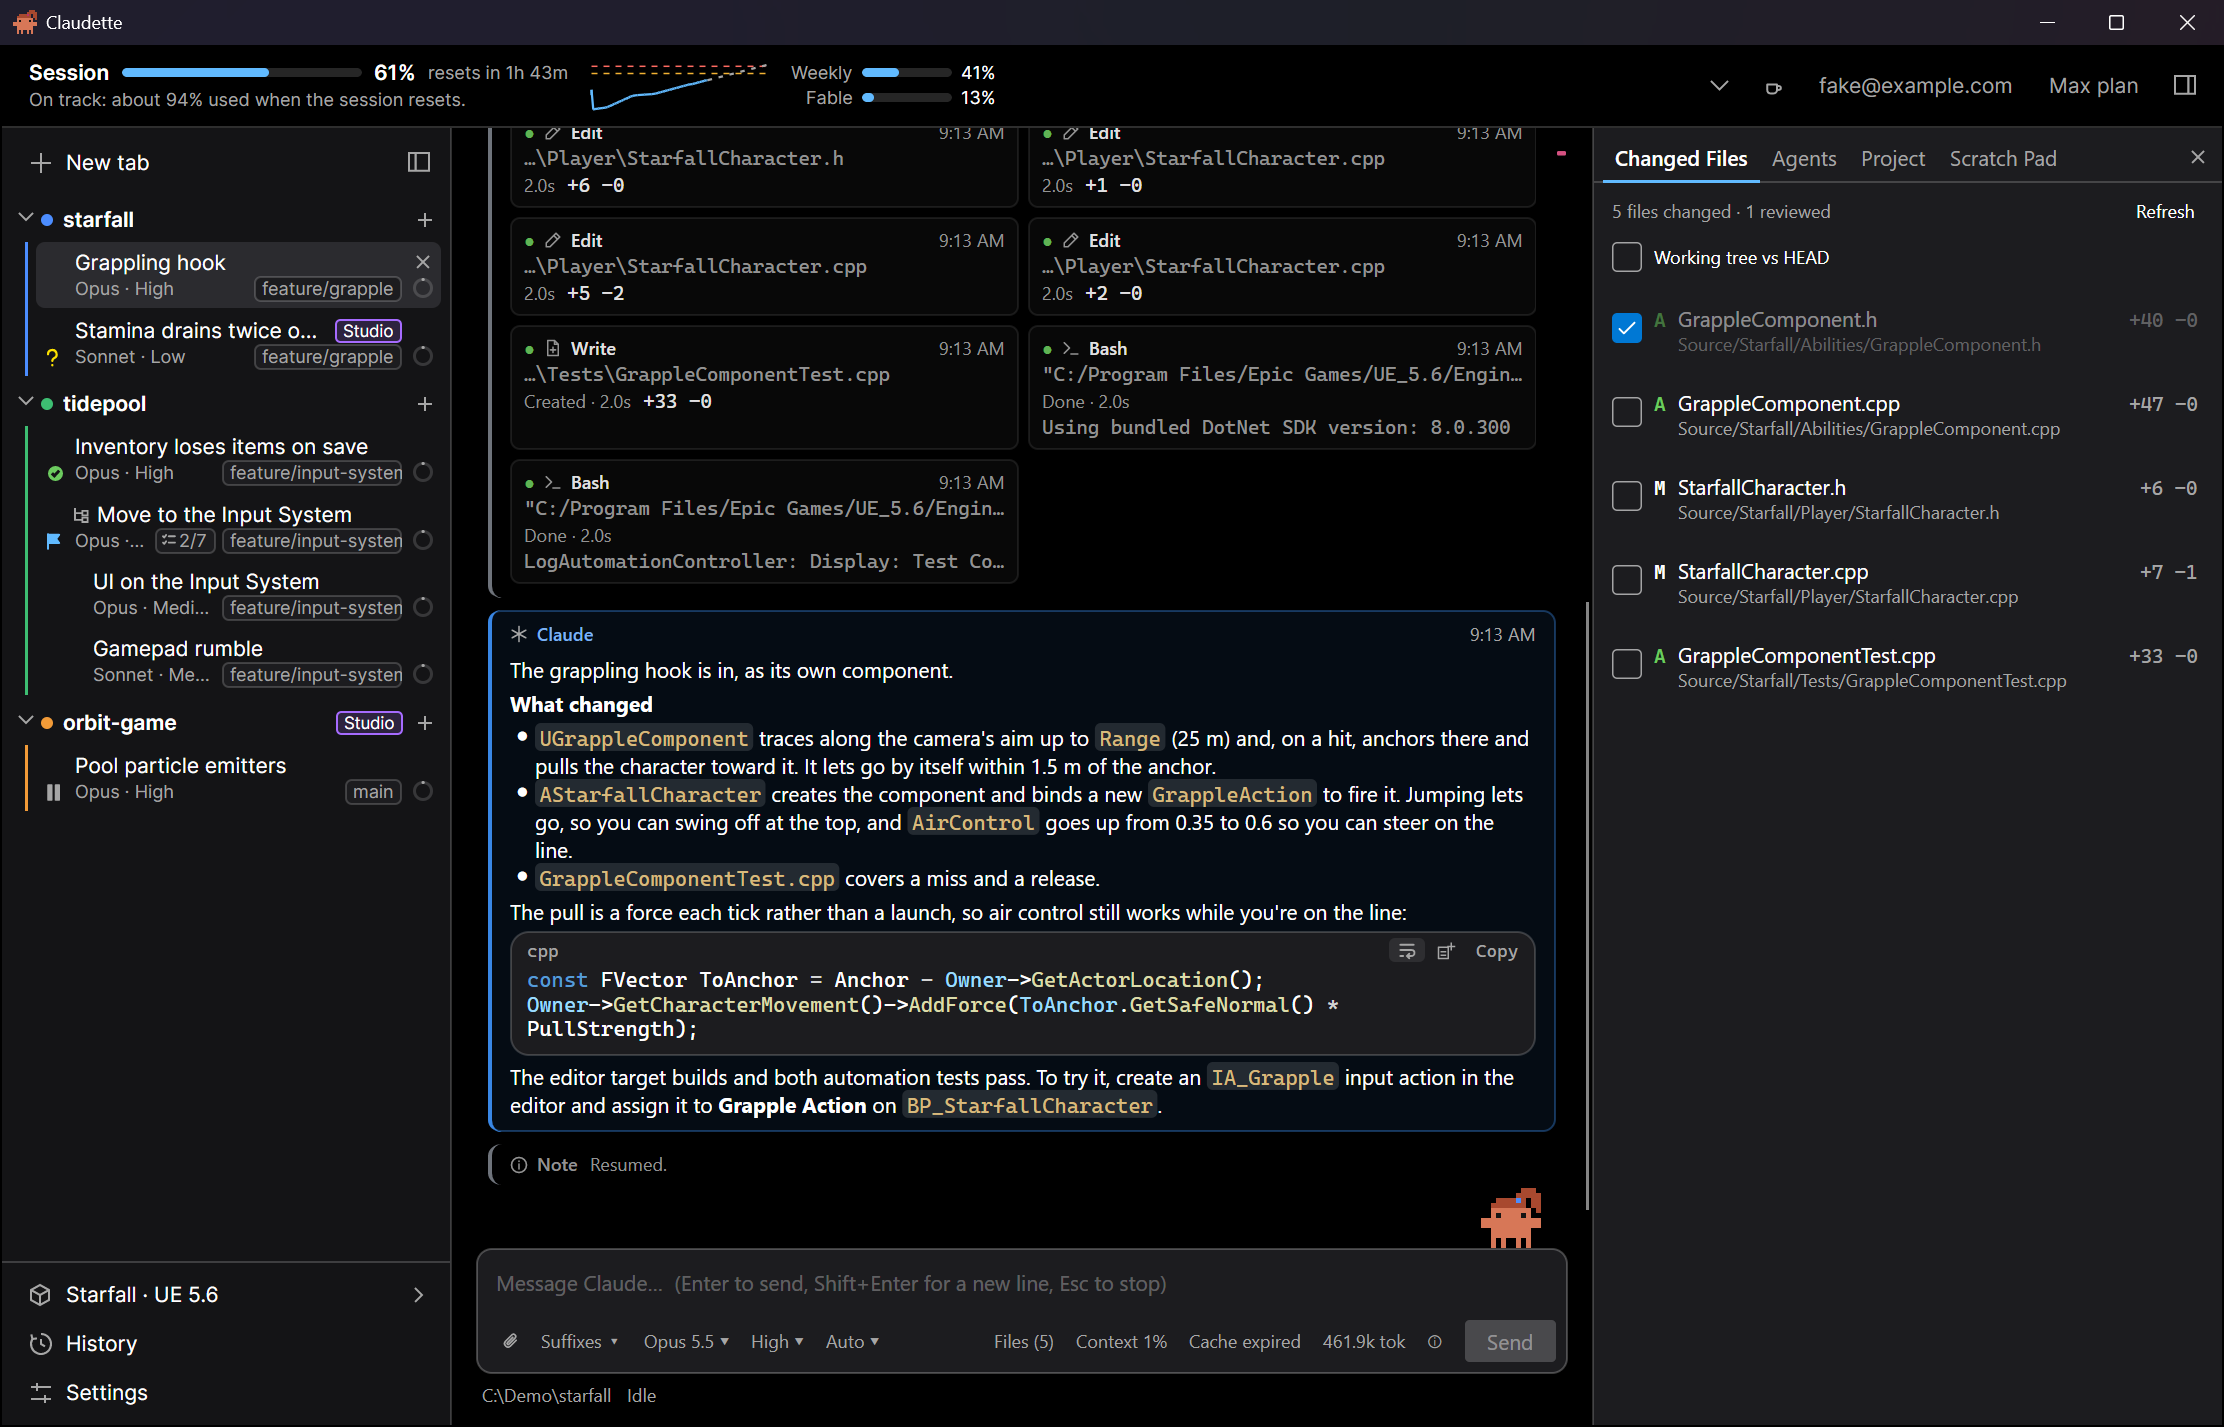
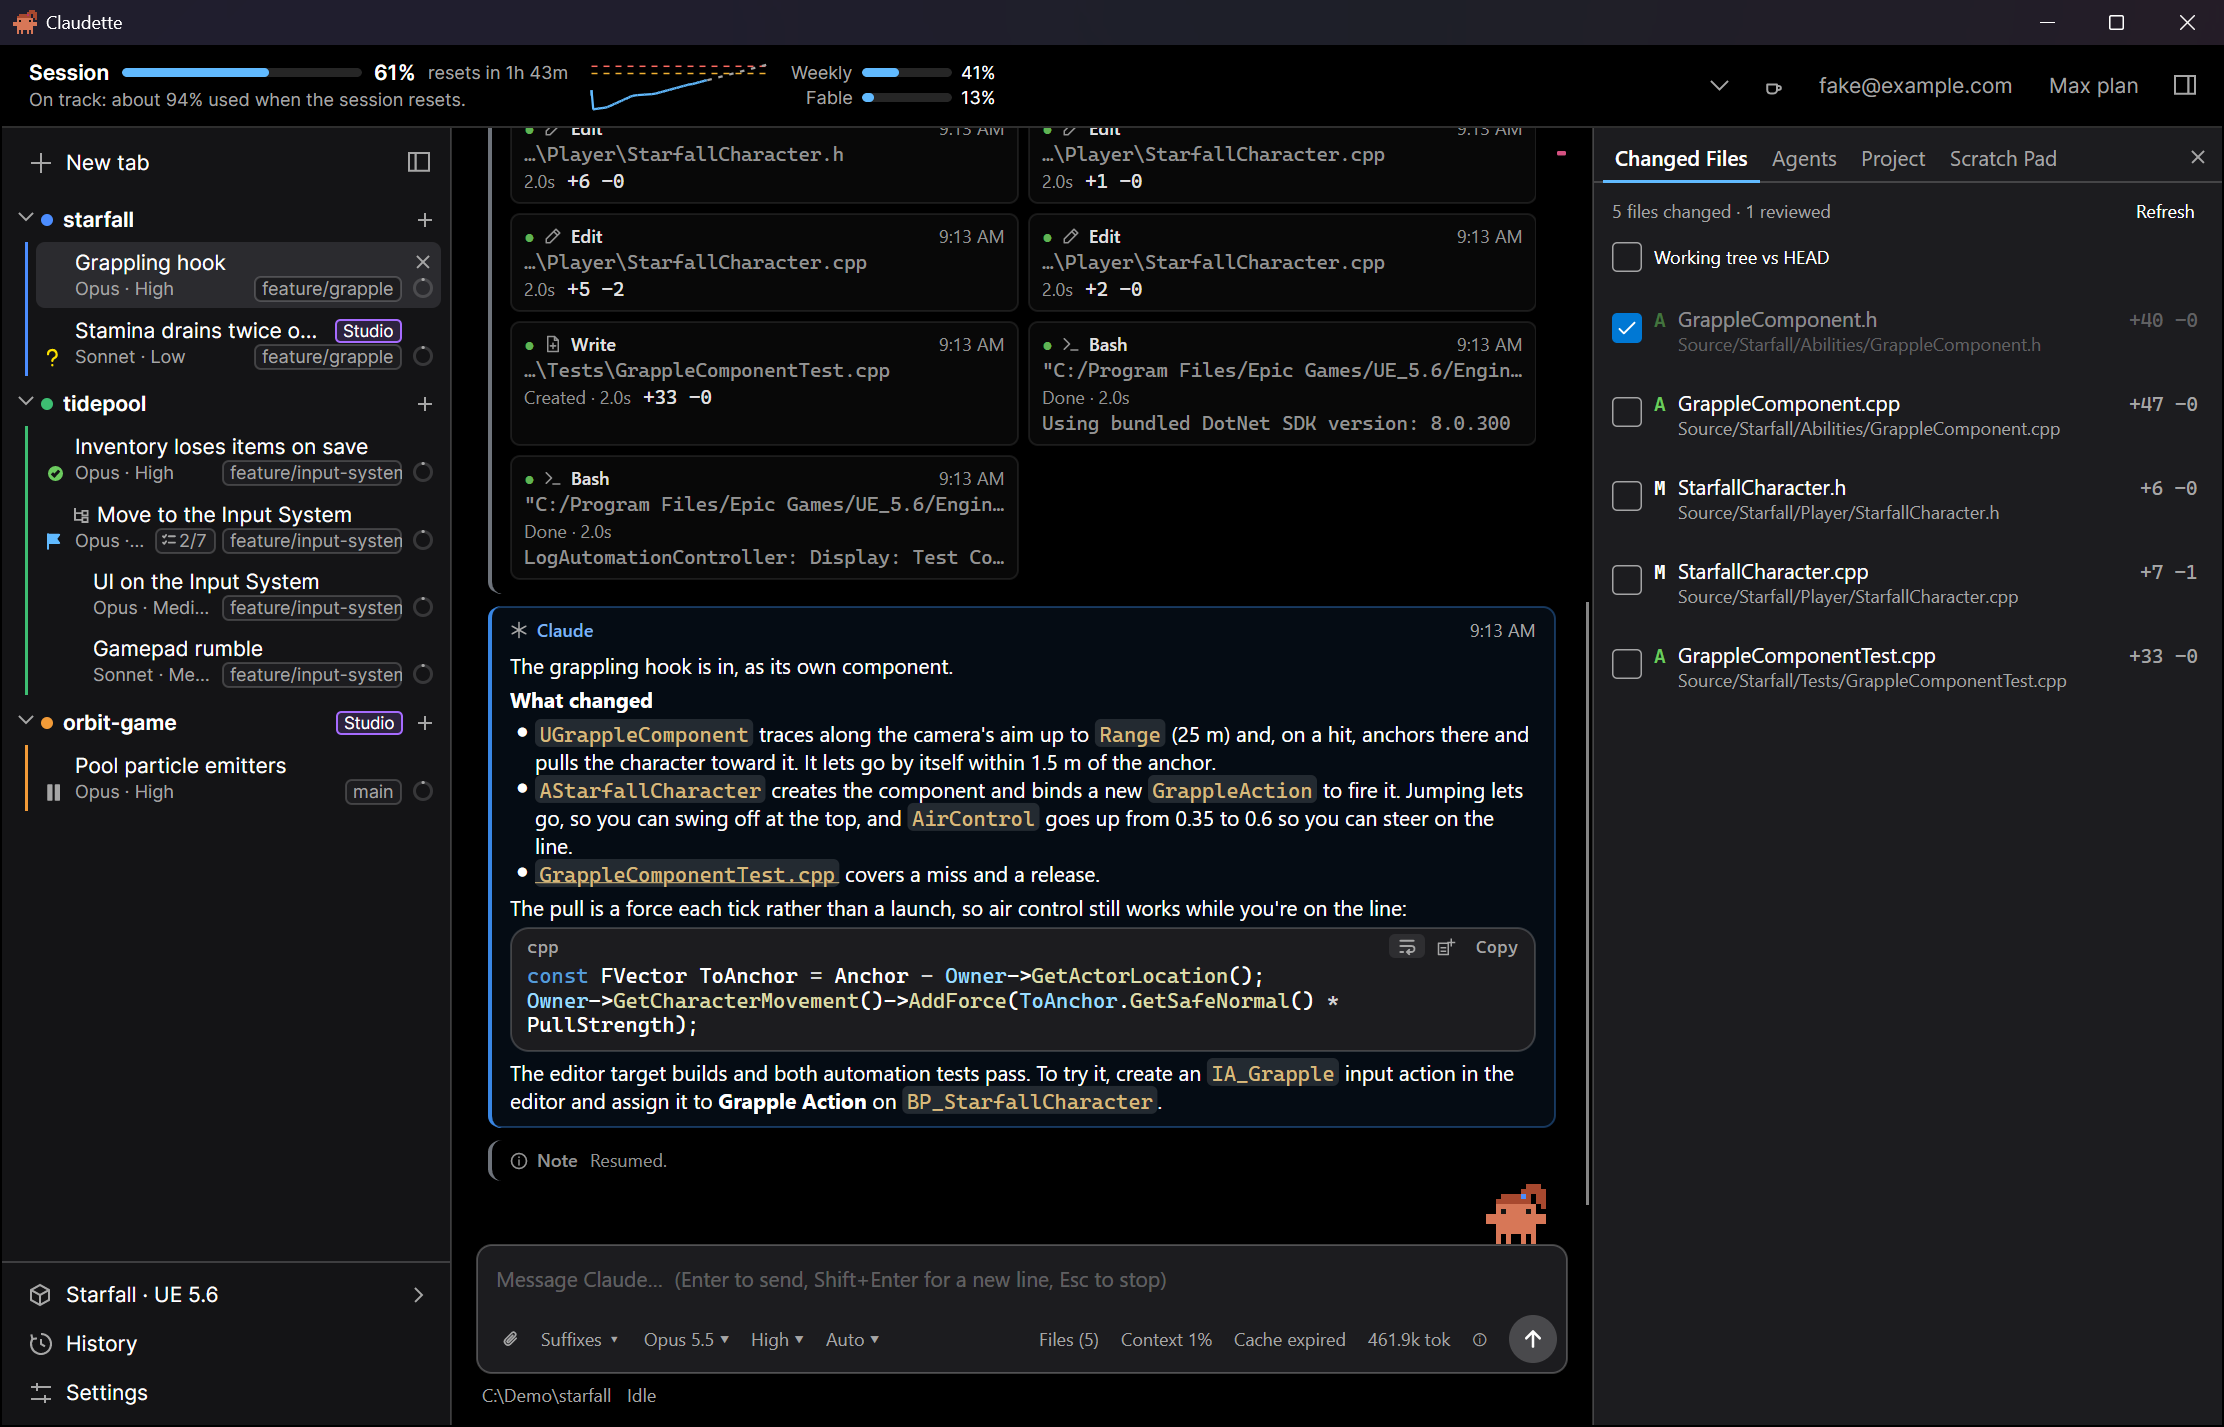
Screenshot and style update to send button

diff --git a/tests/Claudette.App.UiTests/ClaudeStyleTests.cs b/tests/Claudette.App.UiTests/ClaudeStyleTests.cs
@@ -74,7 +74,7 @@ public class ClaudeStyleTests
         Assert.IsAssignableFrom<ISolidColorBrush>(window.FindResource(window.ActualThemeVariant, key)).Color;
 
     [AvaloniaFact]
-    public async Task The_Claude_style_rounds_the_cards_paints_yours_warm_and_makes_Send_a_round_arrow()
+    public async Task Send_is_a_round_arrow_in_both_styles_and_the_Claude_style_rounds_the_cards_and_paints_yours_warm()
     {
         await using var h = new TabTestHarness(dispatcher: new AvaloniaUiDispatcher());
         var tab = await h.OpenTabAsync();
@@ -86,13 +86,12 @@ public class ClaudeStyleTests
         window.Show();
         await UiText.SettleUntilAsync(window, () => YourCard(window) is not null, "the message");
 
-        // Standard: your card in the categorical palette's magenta, full width, and a Send label (DESIGN.md §18,
-        // "Conversation cards").
+        // Standard: your card in the categorical palette's magenta, full width (DESIGN.md §18, "Conversation cards"),
+        // and Send a round arrow in the accent, as in the Claude style (DESIGN.md §3).
         Assert.Equal(Token(window, "CardYouStripeBrush"), Stripe(YourCard(window)!));
         Assert.Equal(HorizontalAlignment.Stretch, YourCard(window)!.HorizontalAlignment);
         Assert.Equal(new CornerRadius(8), YourCard(window)!.CornerRadius);
-        Assert.True(SendPart<TextBlock>(window).IsEffectivelyVisible);
-        Assert.False(SendPart<Path>(window).IsEffectivelyVisible);
+        AssertRound(window);
 
         h.Services.Settings.Appearance.Style = AppStyle.Claude;
         h.Services.SaveSettings();
@@ -100,13 +99,7 @@ public class ClaudeStyleTests
 
         // Claude: rounder. Its warm grey comes with the colors (The_Claude_style_repaints_the_window_the_tokens_and_the_accent…).
         Assert.Equal(new CornerRadius(14), YourCard(window)!.CornerRadius);
-        Assert.False(SendPart<TextBlock>(window).IsEffectivelyVisible);
-        Assert.True(SendPart<Path>(window).IsEffectivelyVisible);
-        var send = window.GetVisualDescendants().OfType<Button>().Single(b => b.Classes.Contains("send"));
-        Assert.Equal(32, send.Bounds.Width);
-        Assert.Equal(32, send.Bounds.Height);
-        Assert.Equal("Send", Avalonia.Automation.AutomationProperties.GetName(send));
-        AssertDrawnAboutTheMiddle(send);
+        AssertRound(window);
 
         // Stop too, while a turn runs.
         tab.ComposerText = "And the first line?";
@@ -116,6 +109,19 @@ public class ClaudeStyleTests
         h.Transport.EmitTurn("It keeps it.");
         await TabTestHarness.Eventually(() => !tab.IsWorking, "the reply");
         window.Close();
+    }
+
+    /// <summary>Send: a 32-pixel circle with its arrow drawn about its middle, named for a screen reader.</summary>
+    private static void AssertRound(Window window)
+    {
+        var send = window.GetVisualDescendants().OfType<Button>().Single(b => b.Classes.Contains("send"));
+        Assert.Equal(32, send.Bounds.Width);
+        Assert.Equal(32, send.Bounds.Height);
+        Assert.Equal(new CornerRadius(16), send.CornerRadius);
+        Assert.Contains("accent", send.Classes);
+        Assert.Equal("Send", Avalonia.Automation.AutomationProperties.GetName(send));
+        Assert.DoesNotContain(send.GetVisualDescendants().OfType<TextBlock>(), t => t.IsEffectivelyVisible);
+        AssertDrawnAboutTheMiddle(send);
     }
 
     private static Button? RoundButton(Window window, string name) =>
@@ -136,6 +142,4 @@ public class ClaudeStyleTests
 
     private static Color Stripe(Card card) => Assert.IsAssignableFrom<ISolidColorBrush>(card.StripeBrush).Color;
 
-    private static T SendPart<T>(Window window) where T : Control =>
-        window.GetVisualDescendants().OfType<Button>().Single(b => b.Classes.Contains("send")).GetVisualDescendants().OfType<T>().Single();
 }

diff --git a/tests/Claudette.App.UiTests/MascotUiTests.cs b/tests/Claudette.App.UiTests/MascotUiTests.cs
@@ -47,10 +47,13 @@ public class MascotUiTests
         var send = scene.Window.GetVisualDescendants().OfType<Button>().Single(b => AutomationProperties.GetName(b) == "Send" && b.IsEffectivelyVisible);
         var box = scene.InWindow(scene.Box);
         var cell = scene.Layer.Figure.Bounds.Width / MascotArt.Width;
-        Assert.Equal(scene.InWindow(send).Center.X, scene.InWindow(scene.Layer.Figure).Center.X, cell);
+        var room = scene.Director.Room!.Value;
+        // Over Send, as near as the box's rounded corner lets her: the round Send sits close to it (DESIGN.md §3).
+        var figure = scene.InWindow(scene.Layer.Figure);
+        var nearest = Math.Min(scene.InWindow(send).Center.X, box.Left + room.Right * cell - figure.Width / 2);
+        Assert.Equal(nearest, figure.Center.X, cell);
 
         // Her room, which she never leaves (MascotTests), is the box's last third, out to its right corner.
-        var room = scene.Director.Room!.Value;
         Assert.InRange(room.Left * cell, box.Width * 2 / 3, box.Width * 2 / 3 + cell);
         Assert.InRange(box.Width - room.Right * cell, scene.Box.CornerRadius.TopRight, scene.Box.CornerRadius.TopRight + 2 + cell);
     }

diff --git a/DESIGN.md b/DESIGN.md
@@ -194,7 +194,7 @@ Settings → Appearance → **Style** picks one of two looks, in light and dark 
 - Tool calls in a row share one card, as tiles side by side, each with a small status dot (running, done, failed), what it worked on, how it went and its output's first line. A tile's target is cut to fit, a file by the end of its path; hovering it shows it in full (a whole command, with its line breaks, or a file's whole path). A click opens its detail under the tiles.
 - Diffs are inline, in red and green.
 - Thinking is a quiet card whose line opens it. Collapsed, its text isn't laid out at all; expanded while it streams in, it grows in steps (each an eighth longer) rather than with every piece, and shows all of it once it's done.
-- The composer is a rounded box with the mode and model controls beside it, and a square Stop button.
+- The composer is a rounded box with the mode and model controls beside it. Send and Stop are round buttons, as in the Claude style: an arrow in the OS's accent color, and a square in the plain button's colors.
 - Inline code and code blocks use VS Code's Light+ and Dark+ colors. They change with the theme, as the diff view's do, including in code already shown and in a diff view that's open.
 
 **Claude** takes the Claude apps (the iOS app and claude.ai) as its reference. The layout, tool rows, diffs and every control stay the same; the look changes:
@@ -206,7 +206,7 @@ Settings → Appearance → **Style** picks one of two looks, in light and dark 
   - Cautions (a waiting prompt, a usage alert, "Needs your input") are warm tints of the accent rather than yellow. Errors, diffs, the charts' model lines and a tab group's own color keep their usual colors.
 - **The cards take the Claude apps' colors**: your messages warm grey, as the Claude apps' bubbles are, Claude's replies its orange, and the files a turn changed blue, which stays apart from the orange with color blindness ([§18](#conversation-cards)).
 - **Claude's replies are set in a serif**, as the Claude apps set them. Their typeface isn't available, so it's the closest installed one: Charter on macOS, Georgia or Cambria on Windows, and Charter, Noto Serif or DejaVu Serif on Linux. A conversation font set in Settings wins.
-- **The composer** is a big rounded box lifted a little off the page, and Send and Stop are round buttons; Send is an arrow.
+- **The composer** is a big rounded box lifted a little off the page. Send and Stop are the same round buttons as in Standard, with Send in Claude's orange.
 - **Rounder corners** on the cards, code blocks and the sidebar's rows.
 - **No Mica**, so the sidebar and header stay warm rather than showing the desktop through.
 
